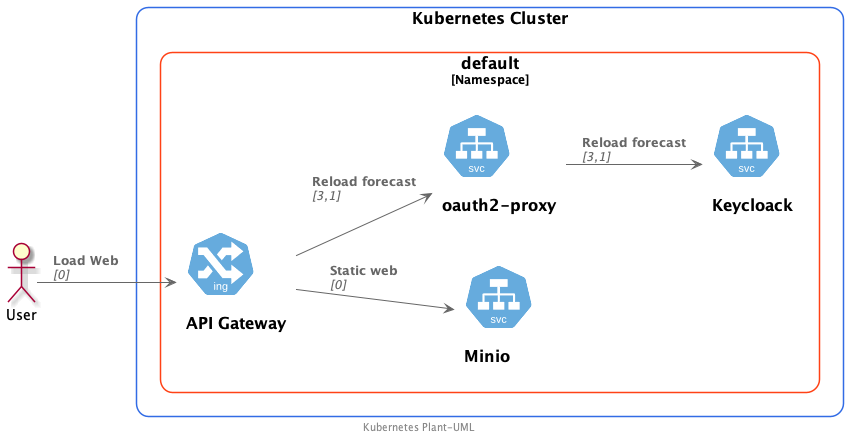
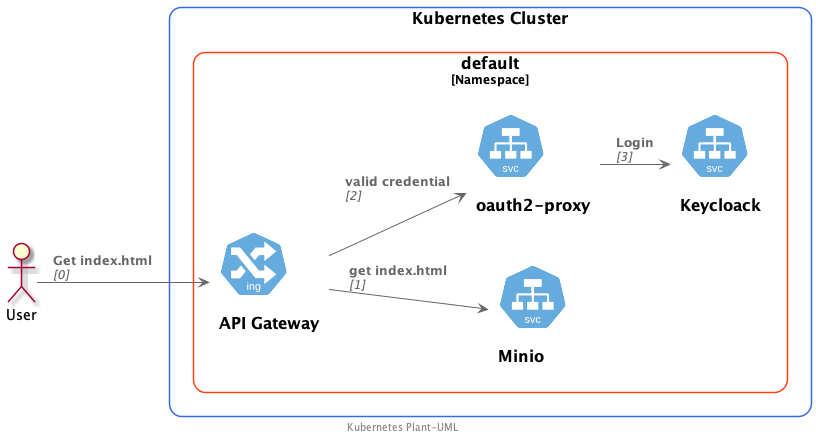
update docs

diff --git a/faas/openFaas/examples/nats-publish/handler.js b/faas/openFaas/examples/nats-publish/handler.js
@@ -1,0 +1,24 @@
+'use strict'
+
+const uri = 'nats://nats.openfaas:4222';
+
+const NATS = require('nats');
+const nc = NATS.connect({servers:[uri]});
+
+module.exports = async (event, context) => {
+  const result = {
+    'status': 'Received input: ' + JSON.stringify(event.body)
+  }
+
+  try {
+    nc.publish('nats-test', 'Hello World!')
+  } catch (error) {
+    console.error(error);
+    throw error;
+  }
+
+  return context
+    .status(200)
+    .succeed(result)
+}
+

diff --git a/faas/openFaas/examples/openid-example/handler.js b/faas/openFaas/examples/openid-example/handler.js
@@ -1,0 +1,13 @@
+'use strict'
+
+module.exports = async (event, context) => {
+  console.log(`headers ${JSON.stringify(event.headers)}`);
+  const result = {
+    'status': 'Received input: ' + JSON.stringify(event.body)
+  }
+
+  return context
+    .status(200)
+    .succeed(result)
+}
+

diff --git a/faas/openFaas/examples/nats-reciver/handler.js b/faas/openFaas/examples/nats-reciver/handler.js
@@ -1,0 +1,13 @@
+'use strict'
+
+module.exports = async (event, context) => {
+  const result = {
+    'status': 'Received input: ' + JSON.stringify(event)
+  }
+  console.log(result);
+
+  return context
+    .status(200)
+    .succeed(result)
+}
+

diff --git a/README.md b/README.md
@@ -5,8 +5,8 @@
 
 1. [Databases](#databases)
 2. [File Management](#file-management)
-3. [User Management](#user-management)
 4. [Functions as a service (Faas)](#functions-as-a-service-faas)
+3. [User Management](#user-management)
 5. [Message queue](#message-queue)
 
 
@@ -21,7 +21,7 @@
 the alternative to the DynamoDB,Cosmos,... goes through a database operator such as:
 #### Examples
 - [ ] [Mongodb operator](Databases/perconaMongodb/readme.md)
-- [ ] [Postgresql operator](Databases/zalandoPostgresOperator.md)
+- [ ] [Postgresql operator](Databases/zalandoPostgresOperator/readme.md)
 
 #### Others database operators
 
@@ -37,13 +37,6 @@ the alternative to the DynamoDB,Cosmos,... goes through a database operator such
 
 - [ ] [minio](StaticPageDeployment/readme.md)
 
-### User Management
-| AWS     | Azure                | GCP               |
-|---------|----------------------|-------------------|
-| cognito | Active Directory B2C | Identity Platform |
-
-- [ ] [keycloak](UsersManagement/readme.md)
-
 ### Functions as a service (Faas)
 | AWS    | Azure     | GCP             |
 |--------|-----------|-----------------|
@@ -51,6 +44,14 @@ the alternative to the DynamoDB,Cosmos,... goes through a database operator such
 
 - [ ] [knative](faas/knative/readme.md)
 - [ ] [openfaas](faas/openfaas/readme.md)
+
+### User Management
+| AWS     | Azure                | GCP               |
+|---------|----------------------|-------------------|
+| cognito | Active Directory B2C | Identity Platform |
+
+- [ ] [keycloak](UsersManagement/readme.md)
+
 
 ### Message queue
 | AWS     | Azure                   | GCP           |

diff --git a/UsersManagement/OpenFaas/readme.md b/UsersManagement/OpenFaas/readme.md
@@ -1,0 +1,8 @@
+# Secure openFaas function
+
+![Load Web](openfaas-um.png)
+
+
+## Links
+
+- [Adding authentication to your Kubernetes Web applications with Keycloak](https://www.openshift.com/blog/adding-authentication-to-your-kubernetes-web-applications-with-keycloak)

diff --git a/UsersManagement/readme.md b/UsersManagement/readme.md
@@ -1,0 +1,13 @@
+# User Management
+
+## Keycloak app
+
+- [Keycloak](keycloack/readme.md)
+
+
+## Secure Static website
+- [Nginx ingress](simple-ingress/readme.md)
+
+
+## Secure openfaas function
+- [Openfaas](OpenFaas/readme.md)

diff --git a/UsersManagement/simple-ingress/readme.md b/UsersManagement/simple-ingress/readme.md
@@ -1,0 +1,9 @@
+# Secure ingress
+
+
+![Graf](simple-ingress.png)
+
+
+
+
+https://kubernetes.github.io/ingress-nginx/examples/auth/oauth-external-auth/
